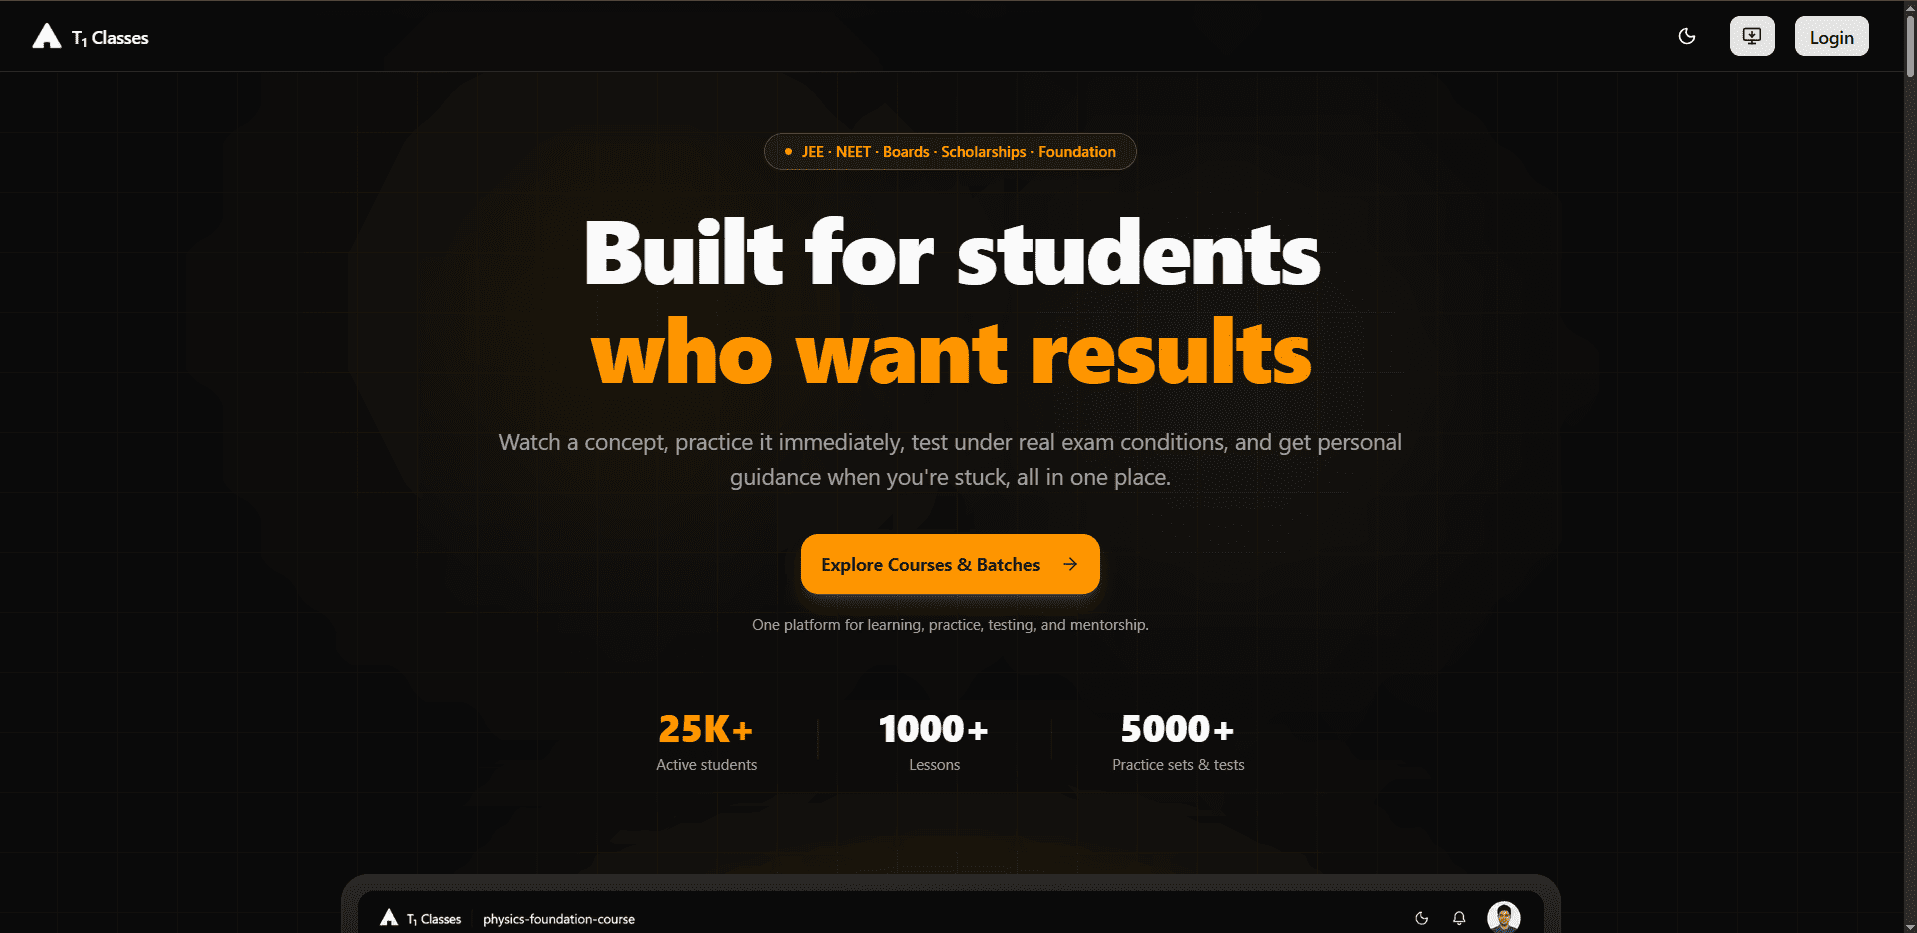
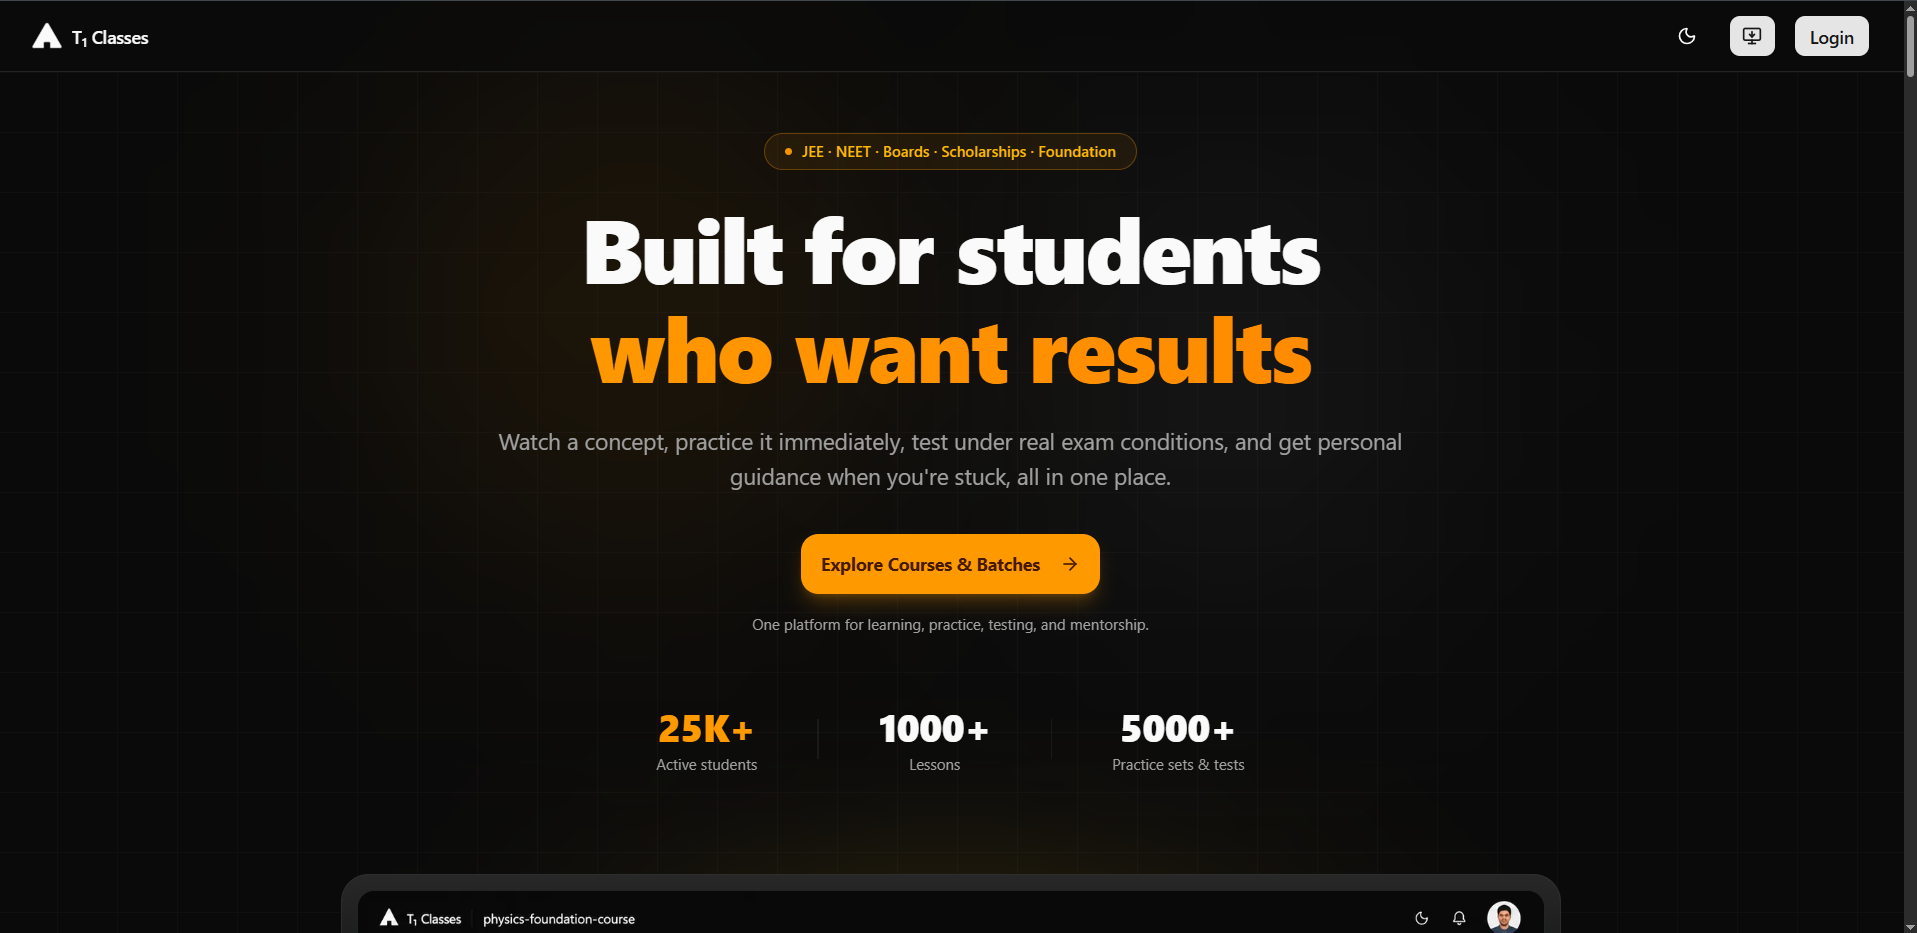
docs: add mobile screenshots to README

Changed region(s): [[0.4309, 0.5906, 0.5848, 0.6527], [0.4001, 0.1243, 0.5848, 0.1865], [0.7694, 0.9636, 0.8002, 1.0]]

diff --git a/README.md b/README.md
@@ -87,6 +87,12 @@ A test-taking experience designed for competitive exam preparation, with detaile
 
 ![Admin Panel 7](./screenshots/admin-panel-7.png)
 
+### Mobile Experience
+
+![Mobile App Screens — View 1](./screenshots/mobile-1.webp)
+
+![Mobile App Screens — View 2](./screenshots/mobile-2.webp)
+
 ### Student Learning Experience
 
 ### Tests & Assessments
